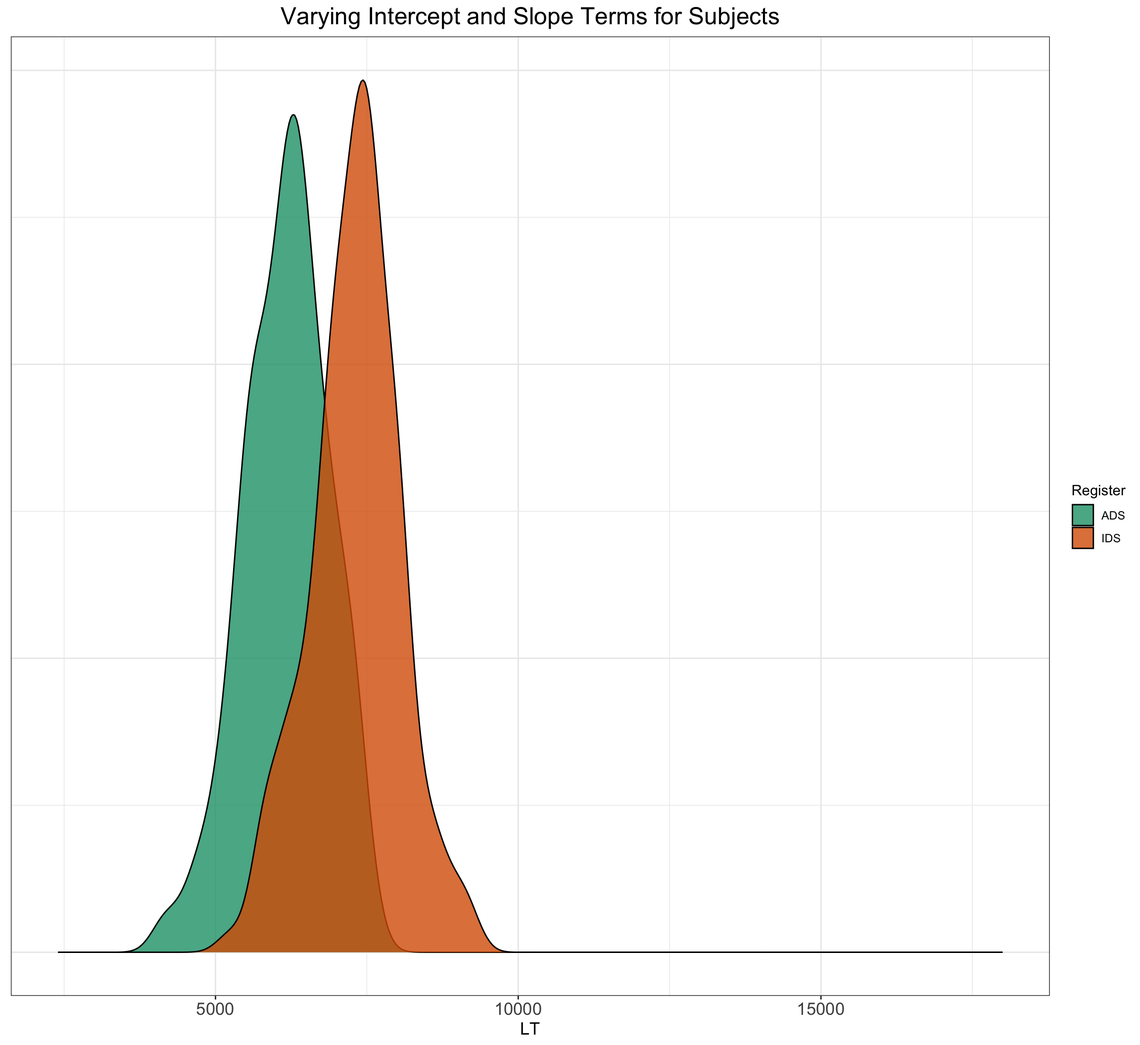
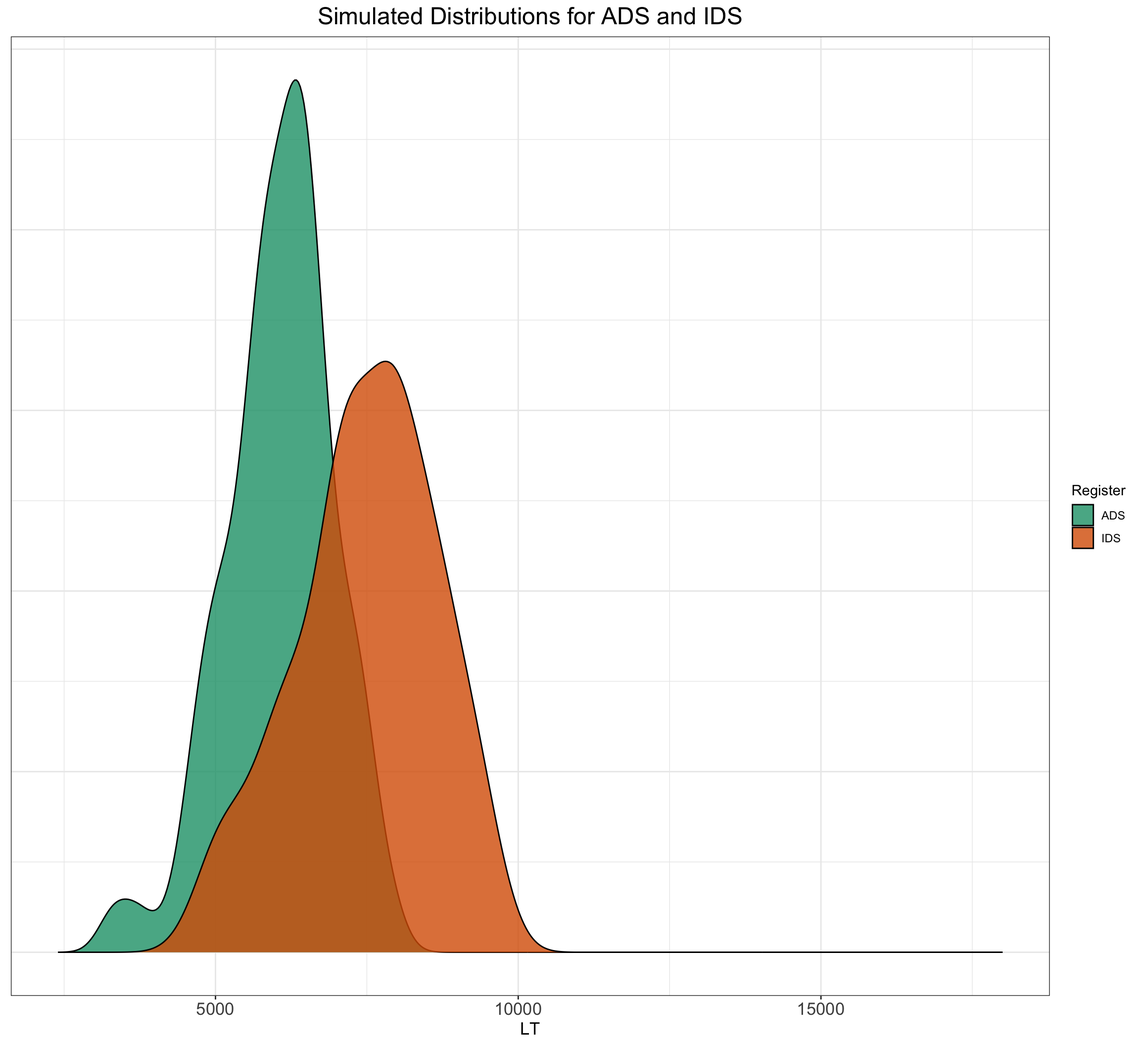
Built site for gh-pages

Changed region(s): [[0.2188, 0.0625, 0.4688, 0.9375], [0.0625, 0.3438, 0.2812, 0.9375], [0.25, 0.0, 0.6875, 0.0312]]

diff --git a/content/DataSimulation_01.html b/content/DataSimulation_01.html
@@ -291,8 +291,8 @@ Looking Time = \beta^{ADS} + VaryingIntercept^{subj} + VaryingIntercept^{item} +
 <p>To address this, we introduce random intercept values for subjects and items by code the standard deviation of the random intercepts and sampling from a normal distribution. This reflects the range of differences we might observe among subjects’ reactions and the effects of different stimulus items.</p>
 <div class="cell">
 <div class="sourceCode cell-code" id="cb3"><pre class="sourceCode r code-with-copy"><code class="sourceCode r"><span id="cb3-1"><a href="#cb3-1" aria-hidden="true" tabindex="-1"></a><span class="co"># set random effect parameters</span></span>
-<span id="cb3-2"><a href="#cb3-2" aria-hidden="true" tabindex="-1"></a>subject_varyingintercept <span class="ot">&lt;-</span> <span class="dv">500</span>  <span class="co"># by-subject random intercept sd</span></span>
-<span id="cb3-3"><a href="#cb3-3" aria-hidden="true" tabindex="-1"></a>item_varyingintercept <span class="ot">&lt;-</span> <span class="dv">250</span>  <span class="co"># by-item random intercept sd</span></span></code><button title="Copy to Clipboard" class="code-copy-button"><i class="bi"></i></button></pre></div>
+<span id="cb3-2"><a href="#cb3-2" aria-hidden="true" tabindex="-1"></a>subject_varyingintercept <span class="ot">&lt;-</span> <span class="dv">750</span>  <span class="co"># by-subject random intercept sd</span></span>
+<span id="cb3-3"><a href="#cb3-3" aria-hidden="true" tabindex="-1"></a>item_varyingintercept <span class="ot">&lt;-</span> <span class="dv">500</span>  <span class="co"># by-item random intercept sd</span></span></code><button title="Copy to Clipboard" class="code-copy-button"><i class="bi"></i></button></pre></div>
 </div>
 </section>
 <section id="choosing-value-for-varying-slope-parameter" class="level2" data-number="6">
@@ -300,7 +300,7 @@ Looking Time = \beta^{ADS} + VaryingIntercept^{subj} + VaryingIntercept^{item} +
 <p>We also need to acknowledge that the magnitude of the effect of IDS stimuli may vary across individual infants. Some infants might be more responsive to IDS stimuli than others, leading to variation in the differences in looking times across speech styles. We therefore introduce a slope parameter that varies by subject. When we introduce random slopes to a model, we need to consider potential correlations between these varying slopes and the varying intercepts. This is because if there is a correlation between the way individuals (infants, in this case) respond to the IDS stimuli (reflected in the varying slopes) and their baseline behaviors (reflected in the varying intercepts), it can affect our model’s predictions. For instance, if infants who naturally have longer attention spans (reflected in higher random intercepts) also tend to show stronger responses to IDS stimuli (reflected in steeper random slopes), ignoring this correlation might lead to biased estimates. Including a correlation matrix allows us to explicitly account for these potential correlations, ensuring that our model accurately captures the relationships between different sources of variability in the data and produces more reliable results. Hence, in the following code, we include a correlation matrix, specifying a weak correlation between the varying intercepts and varying slopes of infant participants. Lastly, we incorporate a residual error term to account for any unexplained sources of variability in the model.</p>
 <div class="cell">
 <div class="sourceCode cell-code" id="cb4"><pre class="sourceCode r code-with-copy"><code class="sourceCode r"><span id="cb4-1"><a href="#cb4-1" aria-hidden="true" tabindex="-1"></a><span class="co"># set more random effect and error parameters</span></span>
-<span id="cb4-2"><a href="#cb4-2" aria-hidden="true" tabindex="-1"></a>subject_varyingslope <span class="ot">&lt;-</span> <span class="dv">100</span>  <span class="co"># by-subject random slope sd</span></span>
+<span id="cb4-2"><a href="#cb4-2" aria-hidden="true" tabindex="-1"></a>subject_varyingslope <span class="ot">&lt;-</span> <span class="dv">500</span>  <span class="co"># by-subject random slope sd</span></span>
 <span id="cb4-3"><a href="#cb4-3" aria-hidden="true" tabindex="-1"></a>rho <span class="ot">&lt;-</span> <span class="fl">0.2</span>  <span class="co"># correlation between intercept and slope</span></span>
 <span id="cb4-4"><a href="#cb4-4" aria-hidden="true" tabindex="-1"></a>sigma <span class="ot">&lt;-</span> <span class="dv">500</span>  <span class="co"># residual (error) sd</span></span></code><button title="Copy to Clipboard" class="code-copy-button"><i class="bi"></i></button></pre></div>
 </div>
@@ -326,7 +326,7 @@ Looking Time = \beta^{ADS} + VaryingIntercept^{subj} + VaryingIntercept^{item} +
 <pre><code>Rows: 12
 Columns: 4
 $ Register          &lt;chr&gt; "IDS", "IDS", "IDS", "IDS", "IDS", "IDS", "ADS", "AD…
-$ item_intercept_sd &lt;dbl&gt; -301.76644, 69.35731, 271.11029, -586.42443, 107.281…
+$ item_intercept_sd &lt;dbl&gt; -603.5329, 138.7146, 542.2206, -1172.8489, 214.5623,…
 $ SpeechStyle       &lt;dbl&gt; 1, 1, 1, 1, 1, 1, 0, 0, 0, 0, 0, 0
 $ item_id           &lt;chr&gt; "I01", "I02", "I03", "I04", "I05", "I06", "I07", "I0…</code></pre>
 </div>
@@ -367,18 +367,19 @@ $ item_id           &lt;chr&gt; "I01", "I02", "I03", "I04", "I05", "I06", "I07",
 <div class="cell-output cell-output-stdout">
 <pre><code>Rows: 25
 Columns: 3
-$ subject_intercept_sd &lt;dbl&gt; 382.658246, -33.425681, -481.626658, 61.038220, 2…
-$ subject_slope_sd     &lt;dbl&gt; 147.31082, 27.44542, 25.61690, -139.48689, 115.15…
+$ subject_intercept_sd &lt;dbl&gt; 432.61155, -79.36596, -762.14137, 237.09955, 264.…
+$ subject_slope_sd     &lt;dbl&gt; 762.20127, 127.60529, 57.16425, -663.50037, 589.2…
 $ subj_id              &lt;chr&gt; "S01", "S02", "S03", "S04", "S05", "S06", "S07", …</code></pre>
 </div>
 <div class="sourceCode cell-code" id="cb12"><pre class="sourceCode r code-with-copy"><code class="sourceCode r"><span id="cb12-1"><a href="#cb12-1" aria-hidden="true" tabindex="-1"></a>subjects <span class="sc">%&gt;%</span></span>
-<span id="cb12-2"><a href="#cb12-2" aria-hidden="true" tabindex="-1"></a>    <span class="fu">pivot_longer</span>(<span class="at">cols =</span> <span class="fu">starts_with</span>(<span class="st">"subject"</span>), <span class="at">names_to =</span> <span class="st">"parameters"</span>,</span>
+<span id="cb12-2"><a href="#cb12-2" aria-hidden="true" tabindex="-1"></a>    <span class="fu">pivot_longer</span>(<span class="at">cols =</span> <span class="fu">starts_with</span>(<span class="st">"subject"</span>), <span class="at">names_to =</span> <span class="st">"Parameters"</span>,</span>
 <span id="cb12-3"><a href="#cb12-3" aria-hidden="true" tabindex="-1"></a>        <span class="at">values_to =</span> <span class="st">"value"</span>) <span class="sc">%&gt;%</span></span>
-<span id="cb12-4"><a href="#cb12-4" aria-hidden="true" tabindex="-1"></a>    <span class="fu">ggplot</span>() <span class="sc">+</span> <span class="fu">geom_density</span>(<span class="fu">aes</span>(value, <span class="at">fill =</span> parameters), <span class="at">alpha =</span> <span class="fl">0.8</span>) <span class="sc">+</span></span>
+<span id="cb12-4"><a href="#cb12-4" aria-hidden="true" tabindex="-1"></a>    <span class="fu">ggplot</span>() <span class="sc">+</span> <span class="fu">geom_density</span>(<span class="fu">aes</span>(value, <span class="at">fill =</span> Parameters), <span class="at">alpha =</span> <span class="fl">0.8</span>) <span class="sc">+</span></span>
 <span id="cb12-5"><a href="#cb12-5" aria-hidden="true" tabindex="-1"></a>    <span class="fu">xlim</span>(<span class="fu">c</span>(<span class="sc">-</span><span class="dv">4</span> <span class="sc">*</span> subject_varyingintercept, <span class="dv">4</span> <span class="sc">*</span> subject_varyingintercept)) <span class="sc">+</span></span>
-<span id="cb12-6"><a href="#cb12-6" aria-hidden="true" tabindex="-1"></a>    <span class="fu">facet_wrap</span>(<span class="sc">~</span>parameters) <span class="sc">+</span> <span class="fu">ggtitle</span>(<span class="st">"Varying Intercept and Slope Terms for Subjects"</span>) <span class="sc">+</span></span>
-<span id="cb12-7"><a href="#cb12-7" aria-hidden="true" tabindex="-1"></a>    plot_theme <span class="sc">+</span> <span class="fu">scale_fill_brewer</span>(<span class="at">palette =</span> <span class="st">"Dark2"</span>) <span class="sc">+</span> <span class="fu">theme</span>(<span class="at">axis.title.y =</span> <span class="fu">element_blank</span>(),</span>
-<span id="cb12-8"><a href="#cb12-8" aria-hidden="true" tabindex="-1"></a>    <span class="at">axis.text.y =</span> <span class="fu">element_blank</span>(), <span class="at">axis.ticks.y =</span> <span class="fu">element_blank</span>())</span></code><button title="Copy to Clipboard" class="code-copy-button"><i class="bi"></i></button></pre></div>
+<span id="cb12-6"><a href="#cb12-6" aria-hidden="true" tabindex="-1"></a>    <span class="fu">facet_wrap</span>(<span class="sc">~</span>Parameters) <span class="sc">+</span> <span class="fu">ggtitle</span>(<span class="st">"Varying Intercept and Slope Terms for Subjects"</span>) <span class="sc">+</span></span>
+<span id="cb12-7"><a href="#cb12-7" aria-hidden="true" tabindex="-1"></a>    <span class="fu">xlab</span>(<span class="st">"Looking Times (ms)"</span>) <span class="sc">+</span> plot_theme <span class="sc">+</span> <span class="fu">scale_fill_brewer</span>(<span class="at">palette =</span> <span class="st">"Dark2"</span>) <span class="sc">+</span></span>
+<span id="cb12-8"><a href="#cb12-8" aria-hidden="true" tabindex="-1"></a>    <span class="fu">theme</span>(<span class="at">axis.title.y =</span> <span class="fu">element_blank</span>(), <span class="at">axis.text.y =</span> <span class="fu">element_blank</span>(),</span>
+<span id="cb12-9"><a href="#cb12-9" aria-hidden="true" tabindex="-1"></a>        <span class="at">axis.ticks.y =</span> <span class="fu">element_blank</span>())</span></code><button title="Copy to Clipboard" class="code-copy-button"><i class="bi"></i></button></pre></div>
 <div class="cell-output-display">
 <div>
 <figure class="figure">
@@ -400,11 +401,11 @@ $ subj_id              &lt;chr&gt; "S01", "S02", "S03", "S04", "S05", "S06", "S0
 <div class="cell-output cell-output-stdout">
 <pre><code>Rows: 300
 Columns: 8
-$ subject_intercept_sd &lt;dbl&gt; -1211.9231, -1211.9231, -1211.9231, -1211.9231, -…
-$ subject_slope_sd     &lt;dbl&gt; 47.01883, 47.01883, 47.01883, 47.01883, 47.01883,…
+$ subject_intercept_sd &lt;dbl&gt; -1899.7977, -1899.7977, -1899.7977, -1899.7977, -…
+$ subject_slope_sd     &lt;dbl&gt; 59.83016, 59.83016, 59.83016, 59.83016, 59.83016,…
 $ subj_id              &lt;chr&gt; "S08", "S08", "S08", "S08", "S08", "S08", "S08", …
 $ Register             &lt;chr&gt; "ADS", "ADS", "ADS", "ADS", "ADS", "ADS", "IDS", …
-$ item_intercept_sd    &lt;dbl&gt; -249.59661, -222.50946, -143.68499, -141.11300, -…
+$ item_intercept_sd    &lt;dbl&gt; -499.1932, -445.0189, -287.3700, -282.2260, -273.…
 $ SpeechStyle          &lt;dbl&gt; 0, 0, 0, 0, 0, 0, 1, 1, 1, 1, 1, 1, 0, 0, 0, 0, 0…
 $ item_id              &lt;chr&gt; "I12", "I10", "I07", "I09", "I08", "I11", "I04", …
 $ e_si                 &lt;dbl&gt; -17.380195, -334.816790, -3.802378, 888.542224, -…</code></pre>
@@ -424,7 +425,7 @@ $ e_si                 &lt;dbl&gt; -17.380195, -334.816790, -3.802378, 888.54222
 <span id="cb16-2"><a href="#cb16-2" aria-hidden="true" tabindex="-1"></a><span class="co"># across ADS and IDS</span></span>
 <span id="cb16-3"><a href="#cb16-3" aria-hidden="true" tabindex="-1"></a>SimulatedLT <span class="sc">%&gt;%</span></span>
 <span id="cb16-4"><a href="#cb16-4" aria-hidden="true" tabindex="-1"></a>    <span class="fu">ggplot</span>() <span class="sc">+</span> <span class="fu">geom_density</span>(<span class="fu">aes</span>(LT, <span class="at">fill =</span> Register), <span class="at">alpha =</span> <span class="fl">0.8</span>) <span class="sc">+</span></span>
-<span id="cb16-5"><a href="#cb16-5" aria-hidden="true" tabindex="-1"></a>    <span class="fu">xlim</span>(<span class="fu">c</span>(<span class="dv">2400</span>, <span class="dv">18000</span>)) <span class="sc">+</span> <span class="fu">ggtitle</span>(<span class="st">"Varying Intercept and Slope Terms for Subjects"</span>) <span class="sc">+</span></span>
+<span id="cb16-5"><a href="#cb16-5" aria-hidden="true" tabindex="-1"></a>    <span class="fu">xlim</span>(<span class="fu">c</span>(<span class="dv">2400</span>, <span class="dv">18000</span>)) <span class="sc">+</span> <span class="fu">ggtitle</span>(<span class="st">"Simulated Distributions for ADS and IDS"</span>) <span class="sc">+</span></span>
 <span id="cb16-6"><a href="#cb16-6" aria-hidden="true" tabindex="-1"></a>    plot_theme <span class="sc">+</span> <span class="fu">scale_fill_brewer</span>(<span class="at">palette =</span> <span class="st">"Dark2"</span>) <span class="sc">+</span> <span class="fu">theme</span>(<span class="at">axis.title.y =</span> <span class="fu">element_blank</span>(),</span>
 <span id="cb16-7"><a href="#cb16-7" aria-hidden="true" tabindex="-1"></a>    <span class="at">axis.text.y =</span> <span class="fu">element_blank</span>(), <span class="at">axis.ticks.y =</span> <span class="fu">element_blank</span>())</span></code><button title="Copy to Clipboard" class="code-copy-button"><i class="bi"></i></button></pre></div>
 <div class="cell-output-display">
@@ -468,7 +469,7 @@ $ e_si                 &lt;dbl&gt; -17.380195, -334.816790, -3.802378, 888.54222
 <span id="cb18-7"><a href="#cb18-7" aria-hidden="true" tabindex="-1"></a>  <span class="at">mean_slope =</span>  <span class="dv">1000</span>,   <span class="co"># effect of category</span></span>
 <span id="cb18-8"><a href="#cb18-8" aria-hidden="true" tabindex="-1"></a>  <span class="at">item_varyingintercept =</span>  <span class="dv">250</span>,   <span class="co"># by-item random intercept sd</span></span>
 <span id="cb18-9"><a href="#cb18-9" aria-hidden="true" tabindex="-1"></a>  <span class="at">subject_varyingintercept =</span> <span class="dv">500</span>,   <span class="co"># by-subject random intercept sd</span></span>
-<span id="cb18-10"><a href="#cb18-10" aria-hidden="true" tabindex="-1"></a>  <span class="at">subject_varyingslope =</span>  <span class="dv">100</span>,   <span class="co"># by-subject random slope sd</span></span>
+<span id="cb18-10"><a href="#cb18-10" aria-hidden="true" tabindex="-1"></a>  <span class="at">subject_varyingslope =</span>  <span class="dv">500</span>,   <span class="co"># by-subject random slope sd</span></span>
 <span id="cb18-11"><a href="#cb18-11" aria-hidden="true" tabindex="-1"></a>  <span class="at">rho =</span> <span class="fl">0.2</span>,   <span class="co"># correlation between intercept and slope</span></span>
 <span id="cb18-12"><a href="#cb18-12" aria-hidden="true" tabindex="-1"></a>  <span class="at">sigma =</span> <span class="dv">500</span>) { <span class="co"># residual (standard deviation)</span></span>
 <span id="cb18-13"><a href="#cb18-13" aria-hidden="true" tabindex="-1"></a></span>
@@ -503,7 +504,7 @@ $ e_si                 &lt;dbl&gt; -17.380195, -334.816790, -3.802378, 888.54222
 <span id="cb18-42"><a href="#cb18-42" aria-hidden="true" tabindex="-1"></a>}</span></code><button title="Copy to Clipboard" class="code-copy-button"><i class="bi"></i></button></pre></div>
 </div>
 <p>Having condense all the preceding steps into a single function and returning a dataset with the specified parameters, we are now empowered to effortlessly experiment with different parameters or generate multiple datasets for power analysis purposes.</p>
-<p>For example, we can easily generate a dataset with the effect of IDS being 5000ms instead of only 1000ms by specifying the following</p>
+<p>For example, we can easily generate a dataset with the effect of IDS being 3000ms instead of only 1000ms by specifying the following</p>
 <div class="cell">
 <div class="sourceCode cell-code" id="cb19"><pre class="sourceCode r code-with-copy"><code class="sourceCode r"><span id="cb19-1"><a href="#cb19-1" aria-hidden="true" tabindex="-1"></a>SimulatedDataWithIDSslopeOf3000 <span class="ot">&lt;-</span> <span class="fu">SimulateLTData</span>(<span class="at">mean_slope =</span> <span class="dv">3000</span>)</span>
 <span id="cb19-2"><a href="#cb19-2" aria-hidden="true" tabindex="-1"></a></span>
@@ -628,11 +629,12 @@ $ e_si                 &lt;dbl&gt; -17.380195, -334.816790, -3.802378, 888.54222
 <span id="cb22-50"><a href="#cb22-50" aria-hidden="true" tabindex="-1"></a><span class="fu">ggplot</span>() <span class="sc">+</span> </span>
 <span id="cb22-51"><a href="#cb22-51" aria-hidden="true" tabindex="-1"></a>  <span class="fu">geom_point</span>(<span class="fu">aes</span>(<span class="at">y =</span> LT, <span class="at">x =</span> age_subj, <span class="at">color =</span> subj_id), <span class="at">alpha =</span> <span class="fl">0.6</span>, <span class="at">size =</span> <span class="dv">1</span>, <span class="at">show.legend =</span> F) <span class="sc">+</span> </span>
 <span id="cb22-52"><a href="#cb22-52" aria-hidden="true" tabindex="-1"></a>  <span class="fu">geom_smooth</span>(<span class="at">method =</span> <span class="st">"lm"</span>, <span class="at">se =</span> <span class="cn">TRUE</span>, <span class="at">formula =</span> y <span class="sc">~</span> x, <span class="fu">aes</span>(<span class="at">y =</span> LT, <span class="at">x =</span> age_subj)) <span class="sc">+</span></span>
-<span id="cb22-53"><a href="#cb22-53" aria-hidden="true" tabindex="-1"></a>  <span class="fu">ggtitle</span>(<span class="st">"Interaction Effect with Age"</span>) <span class="sc">+</span></span>
+<span id="cb22-53"><a href="#cb22-53" aria-hidden="true" tabindex="-1"></a>  <span class="fu">ggtitle</span>(<span class="st">"Interaction Effect Between Age and SpeechStyle"</span>) <span class="sc">+</span></span>
 <span id="cb22-54"><a href="#cb22-54" aria-hidden="true" tabindex="-1"></a>  <span class="fu">xlab</span>(<span class="st">"Age (standardised age)"</span>) <span class="sc">+</span> </span>
-<span id="cb22-55"><a href="#cb22-55" aria-hidden="true" tabindex="-1"></a>  <span class="fu">facet_wrap</span>(<span class="sc">~</span>Register) <span class="sc">+</span></span>
-<span id="cb22-56"><a href="#cb22-56" aria-hidden="true" tabindex="-1"></a>  <span class="fu">scale_color_manual</span>(<span class="at">values =</span> <span class="fu">viridis</span>(<span class="at">n =</span> <span class="dv">27</span>)) <span class="sc">+</span></span>
-<span id="cb22-57"><a href="#cb22-57" aria-hidden="true" tabindex="-1"></a>  plot_theme</span></code><button title="Copy to Clipboard" class="code-copy-button"><i class="bi"></i></button></pre></div>
+<span id="cb22-55"><a href="#cb22-55" aria-hidden="true" tabindex="-1"></a>  <span class="fu">ylab</span>(<span class="st">'Looking Time (ms)'</span>) <span class="sc">+</span></span>
+<span id="cb22-56"><a href="#cb22-56" aria-hidden="true" tabindex="-1"></a>  <span class="fu">facet_wrap</span>(<span class="sc">~</span>Register) <span class="sc">+</span></span>
+<span id="cb22-57"><a href="#cb22-57" aria-hidden="true" tabindex="-1"></a>  <span class="fu">scale_color_manual</span>(<span class="at">values =</span> <span class="fu">viridis</span>(<span class="at">n =</span> <span class="dv">27</span>)) <span class="sc">+</span></span>
+<span id="cb22-58"><a href="#cb22-58" aria-hidden="true" tabindex="-1"></a>  plot_theme</span></code><button title="Copy to Clipboard" class="code-copy-button"><i class="bi"></i></button></pre></div>
 </details>
 <div class="cell-output-display">
 <div>

diff --git a/content/SimulationBasedPowerAnalysis_02.html b/content/SimulationBasedPowerAnalysis_02.html
@@ -275,8 +275,9 @@ pre > code.sourceCode > span > a:first-child::before { text-decoration: underlin
 <span id="cb2-3"><a href="#cb2-3" aria-hidden="true" tabindex="-1"></a>    <span class="fu">ggplot</span>() <span class="sc">+</span> <span class="fu">geom_density</span>(<span class="fu">aes</span>(EF, <span class="at">fill =</span> Register), <span class="at">alpha =</span> <span class="fl">0.8</span>) <span class="sc">+</span></span>
 <span id="cb2-4"><a href="#cb2-4" aria-hidden="true" tabindex="-1"></a>    <span class="fu">geom_vline</span>(<span class="at">xintercept =</span> <span class="fl">0.35</span>, <span class="at">linetype =</span> <span class="dv">3</span>) <span class="sc">+</span> <span class="fu">geom_vline</span>(<span class="at">xintercept =</span> <span class="dv">0</span>,</span>
 <span id="cb2-5"><a href="#cb2-5" aria-hidden="true" tabindex="-1"></a>    <span class="at">linetype =</span> <span class="dv">3</span>) <span class="sc">+</span> <span class="fu">xlim</span>(<span class="fu">c</span>(<span class="sc">-</span><span class="dv">5</span> <span class="sc">*</span> <span class="fl">0.35</span>, <span class="dv">5</span> <span class="sc">*</span> <span class="fl">0.35</span>)) <span class="sc">+</span> <span class="fu">ggtitle</span>(<span class="st">"IDS Preference Effect in Effect Sizes"</span>) <span class="sc">+</span></span>
-<span id="cb2-6"><a href="#cb2-6" aria-hidden="true" tabindex="-1"></a>    plot_theme <span class="sc">+</span> <span class="fu">scale_fill_brewer</span>(<span class="at">palette =</span> <span class="st">"Dark2"</span>) <span class="sc">+</span> <span class="fu">theme</span>(<span class="at">axis.title.y =</span> <span class="fu">element_blank</span>(),</span>
-<span id="cb2-7"><a href="#cb2-7" aria-hidden="true" tabindex="-1"></a>    <span class="at">axis.text.y =</span> <span class="fu">element_blank</span>(), <span class="at">axis.ticks.y =</span> <span class="fu">element_blank</span>())</span></code><button title="Copy to Clipboard" class="code-copy-button"><i class="bi"></i></button></pre></div>
+<span id="cb2-6"><a href="#cb2-6" aria-hidden="true" tabindex="-1"></a>    <span class="fu">xlab</span>(<span class="st">"Effect Size (d)"</span>) <span class="sc">+</span> plot_theme <span class="sc">+</span> <span class="fu">scale_fill_brewer</span>(<span class="at">palette =</span> <span class="st">"Dark2"</span>) <span class="sc">+</span></span>
+<span id="cb2-7"><a href="#cb2-7" aria-hidden="true" tabindex="-1"></a>    <span class="fu">theme</span>(<span class="at">axis.title.y =</span> <span class="fu">element_blank</span>(), <span class="at">axis.text.y =</span> <span class="fu">element_blank</span>(),</span>
+<span id="cb2-8"><a href="#cb2-8" aria-hidden="true" tabindex="-1"></a>        <span class="at">axis.ticks.y =</span> <span class="fu">element_blank</span>())</span></code><button title="Copy to Clipboard" class="code-copy-button"><i class="bi"></i></button></pre></div>
 <div class="cell-output-display">
 <div>
 <figure class="figure">
@@ -294,7 +295,7 @@ pre > code.sourceCode > span > a:first-child::before { text-decoration: underlin
 <span id="cb3-6"><a href="#cb3-6" aria-hidden="true" tabindex="-1"></a>        <span class="at">height =</span> <span class="dv">0</span>, <span class="at">seed =</span> <span class="dv">42</span>)), <span class="at">line.args.pos =</span> <span class="fu">list</span>(<span class="at">position =</span> <span class="fu">position_jitter</span>(<span class="at">width =</span> <span class="fl">0.04</span>,</span>
 <span id="cb3-7"><a href="#cb3-7" aria-hidden="true" tabindex="-1"></a>        <span class="at">height =</span> <span class="dv">0</span>, <span class="at">seed =</span> <span class="dv">42</span>))) <span class="sc">+</span> <span class="fu">scale_fill_brewer</span>(<span class="at">palette =</span> <span class="st">"Dark2"</span>) <span class="sc">+</span></span>
 <span id="cb3-8"><a href="#cb3-8" aria-hidden="true" tabindex="-1"></a>    <span class="fu">ggtitle</span>(<span class="st">"Subject-Level Differences across Speech Styles"</span>) <span class="sc">+</span></span>
-<span id="cb3-9"><a href="#cb3-9" aria-hidden="true" tabindex="-1"></a>    <span class="fu">xlab</span>(<span class="st">"Speech Style"</span>) <span class="sc">+</span> <span class="fu">ylab</span>(<span class="st">"Effect Size"</span>) <span class="sc">+</span> plot_theme</span></code><button title="Copy to Clipboard" class="code-copy-button"><i class="bi"></i></button></pre></div>
+<span id="cb3-9"><a href="#cb3-9" aria-hidden="true" tabindex="-1"></a>    <span class="fu">xlab</span>(<span class="st">"Speech Style"</span>) <span class="sc">+</span> <span class="fu">ylab</span>(<span class="st">"Effect Size (d)"</span>) <span class="sc">+</span> plot_theme</span></code><button title="Copy to Clipboard" class="code-copy-button"><i class="bi"></i></button></pre></div>
 <div class="cell-output-display">
 <div>
 <figure class="figure">
@@ -354,7 +355,7 @@ boundary (singular) fit: see help('isSingular')</code></pre>
 </section>
 <section id="time-to-power-up-the-analysis" class="level2" data-number="4">
 <h2 data-number="4" class="anchored" data-anchor-id="time-to-power-up-the-analysis"><span class="header-section-number">4</span> Time to Power-Up the Analysis</h2>
-<p>Now we have two essential components to perform our simulation-based power analysis: i) a code pipeline to generate data for our research question and ii) a clear idea of how we want to model the data. Now it’s time to run the actual power analysis. The way we do this is to specify an effect, run hundreds of models and count the proportion of models that reject the nulle hypothesis. This proportion is an estimate of statistical power for those particular parameter values.</p>
+<p>Now we have two essential components to perform our simulation-based power analysis: i) a code pipeline to generate data for our research question and ii) a clear idea of how we want to model the data. Now it’s time to run the actual power analysis. The way we do this is to specify an effect, run hundreds of models and calculate the proportion of models that reject the null hypothesis. This proportion is an estimate of statistical power for those particular parameter values.</p>
 <p>To simplify the process, we can write a new function that combines a modelling component into our previous SimulateEffectSizeData() function. We will call this function SimulateAndModelEFData(), and we will use broom.mixed::tidy(model) to obtain a dataframe with relevant results from the model and write each model result to a .csv-file.</p>
 <div class="cell">
 <div class="sourceCode cell-code" id="cb8"><pre class="sourceCode r code-with-copy"><code class="sourceCode r"><span id="cb8-1"><a href="#cb8-1" aria-hidden="true" tabindex="-1"></a><span class="co"># simulate, analyze, and return a table of parameter</span></span>

diff --git a/index.html b/index.html
@@ -171,7 +171,7 @@ ul.task-list li input[type="checkbox"] {
 </header>
 
 
-<p>Welcome! This website will form the basis of the 2024 ManyBabies workshop on Data Simulation &amp; Power Analysis. Before we start, I would like to emphasise that this workshop has grown out of discussion with lots of different people and is a true collaborative effort, which accords nicely with the general philosophy of ManyBabies projects. The approach to data simulation and power analysis explored here is closely associated with the data analysis team on the ManyBabies5 project (https://manybabies.org/MB5/). This series of meetings among researchers on the data analysis team was a fundamentally exploratory process being guided by a what-if mindset.</p>
+<p>Welcome! This website will form the basis of the 2024 ManyBabies workshop on Data Simulation &amp; Power Analysis. Before we start, I would like to emphasise that this workshop has grown out of discussion with lots of different people and is a true collaborative effort, which accords nicely with the general philosophy of ManyBabies projects. The approach to data simulation and power analysis explored here is closely associated with the data analysis team on the ManyBabies5 project (https://manybabies.org/MB5/). This series of meetings among researchers on the data analysis team was a fundamentally exploratory process being guided by a what-if mindset. A big thanks goes to Martin Zettersten, Michaela DeBolt, and Jessica Kosie for the fun times and interactions that shaped my approach to simulation-based power analyses.</p>
 <p>For example, how do predictors with two or three levels impact the power to detect an effect on infant looking times? How does variability in individual labs come to affect generalisability and statistical power? What is the optimal balance between various pracical constraints (e.g., an upper bound on the number of stimulus items that infants can attend to) and statistical inference (e.g., how much of a decrease in power are we willing to accept based on the above constraints)? Can these results inform the experimental design in some way and improve chances of replicability?</p>
 <p>This workshop assumes a little literacy in R and linear mixed-effects models, but I have attempted to make these subjects as accessible as possible, even without knowledge of these topics. If you are interested in gaining hands-on pracical experience with the code, then feel free to download the following .Rmd files with the code, so that you can get a better idea of what each code snippet does and can manipulate them according to your own needs and studies.</p>
 <div class="cell">
@@ -186,6 +186,7 @@ ul.task-list li input[type="checkbox"] {
 </div>
 </div>
 <p>I hope that this will be fun experience and useful exploration of data simulation, power analysis, statistical modelling and programming, and if you have any questions, big or small, feel free to contact me on chris[dot]mm[dot]cox@gmail.com.</p>
+<p>We would like to get your thoughts on the workshop as well as gauge interest in future events. Your feedback is greatly appreciated: https://tinyurl.com/MB-Power</p>
 
 
 

diff --git a/content/FurtherResources.html b/content/FurtherResources.html
@@ -177,6 +177,8 @@ ul.task-list li input[type="checkbox"] {
 <li><p>Koch, T., Pargent, F., Kleine, A. K., Lermer, E., &amp; Gaube, S. (2023). A Tutorial on Tailored Simulation-Based Power Analysis for Experimental Designs with Generalized Linear Mixed Models. PsyArxiv: https://osf.io/preprints/psyarxiv/rpjem/.</p></li>
 <li><p>Lakens, D., &amp; Caldwell, A. R. (2021). Simulation-based power analysis for factorial analysis of variance designs. Advances in Methods and Practices in Psychological Science, 4(1), 2515245920951503.</p></li>
 <li><p>https://rpsychologist.com/cohend/</p></li>
+<li><p>Mani, N., Schreiner, M. S., Brase, J., Köhler, K., Strassen, K., Postin, D., &amp; Schultze, T. (2021). Sequential Bayes Factor designs in developmental research: studies on early word learning. Developmental Science, e13097.</p></li>
+<li><p>Zhang, Z. (2014). Monte Carlo based statistical power analysis for mediation models: Methods and software. Behavior research methods, 46, 1184-1198.</p></li>
 </ul>
 
 
